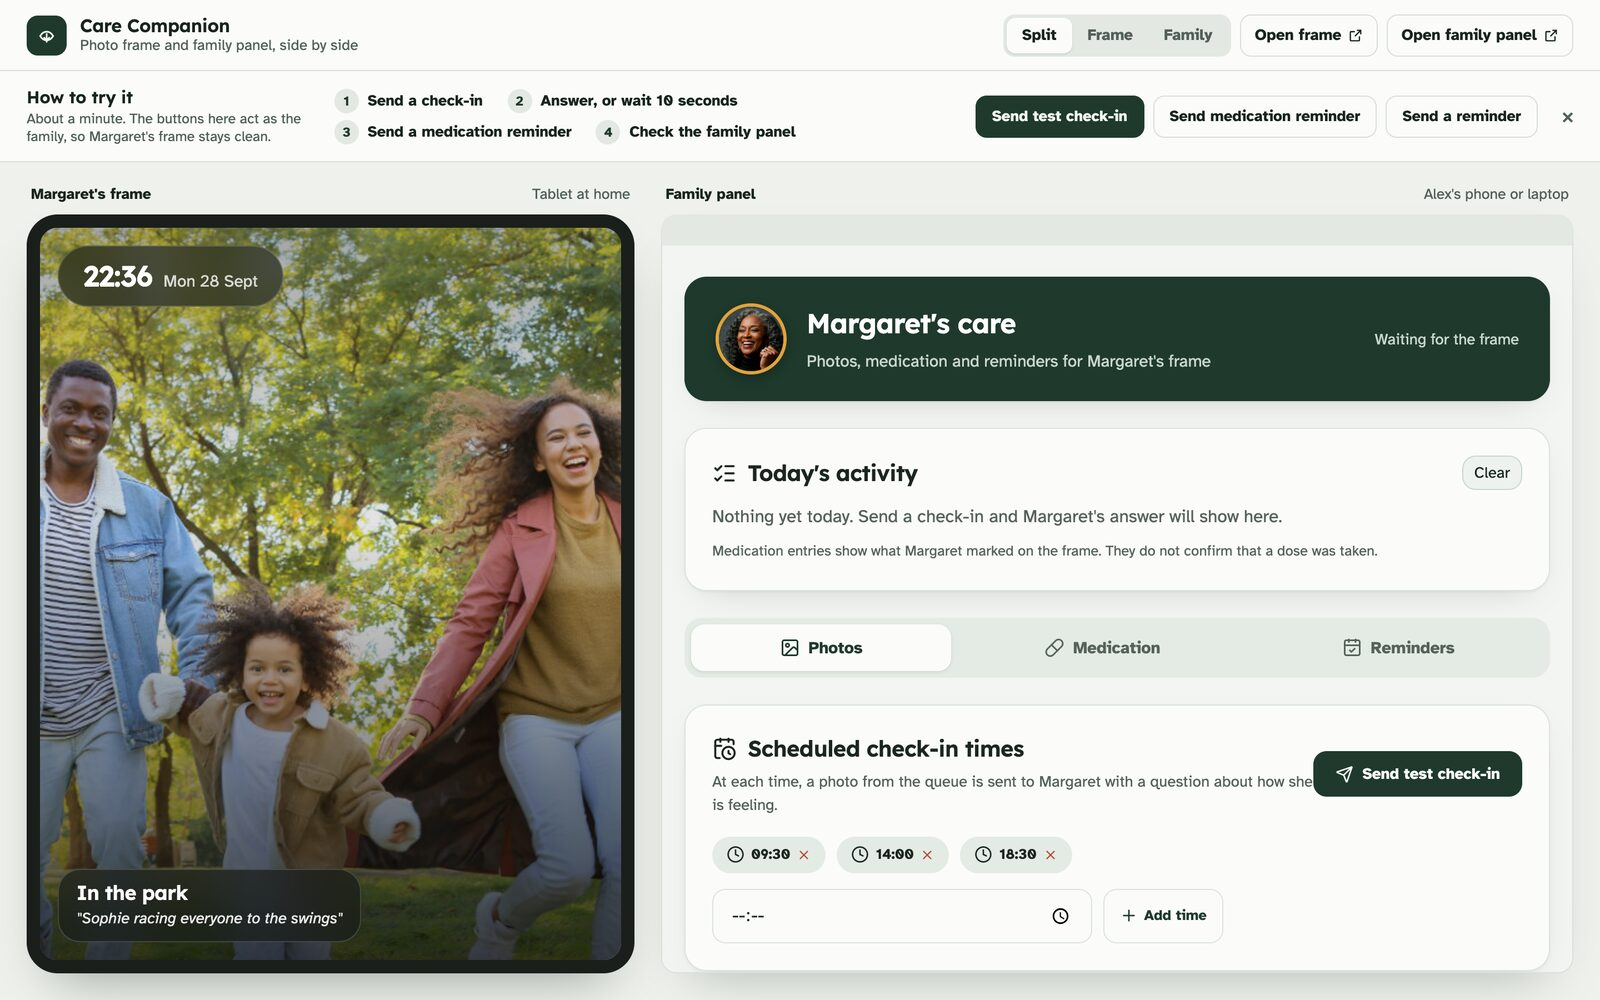
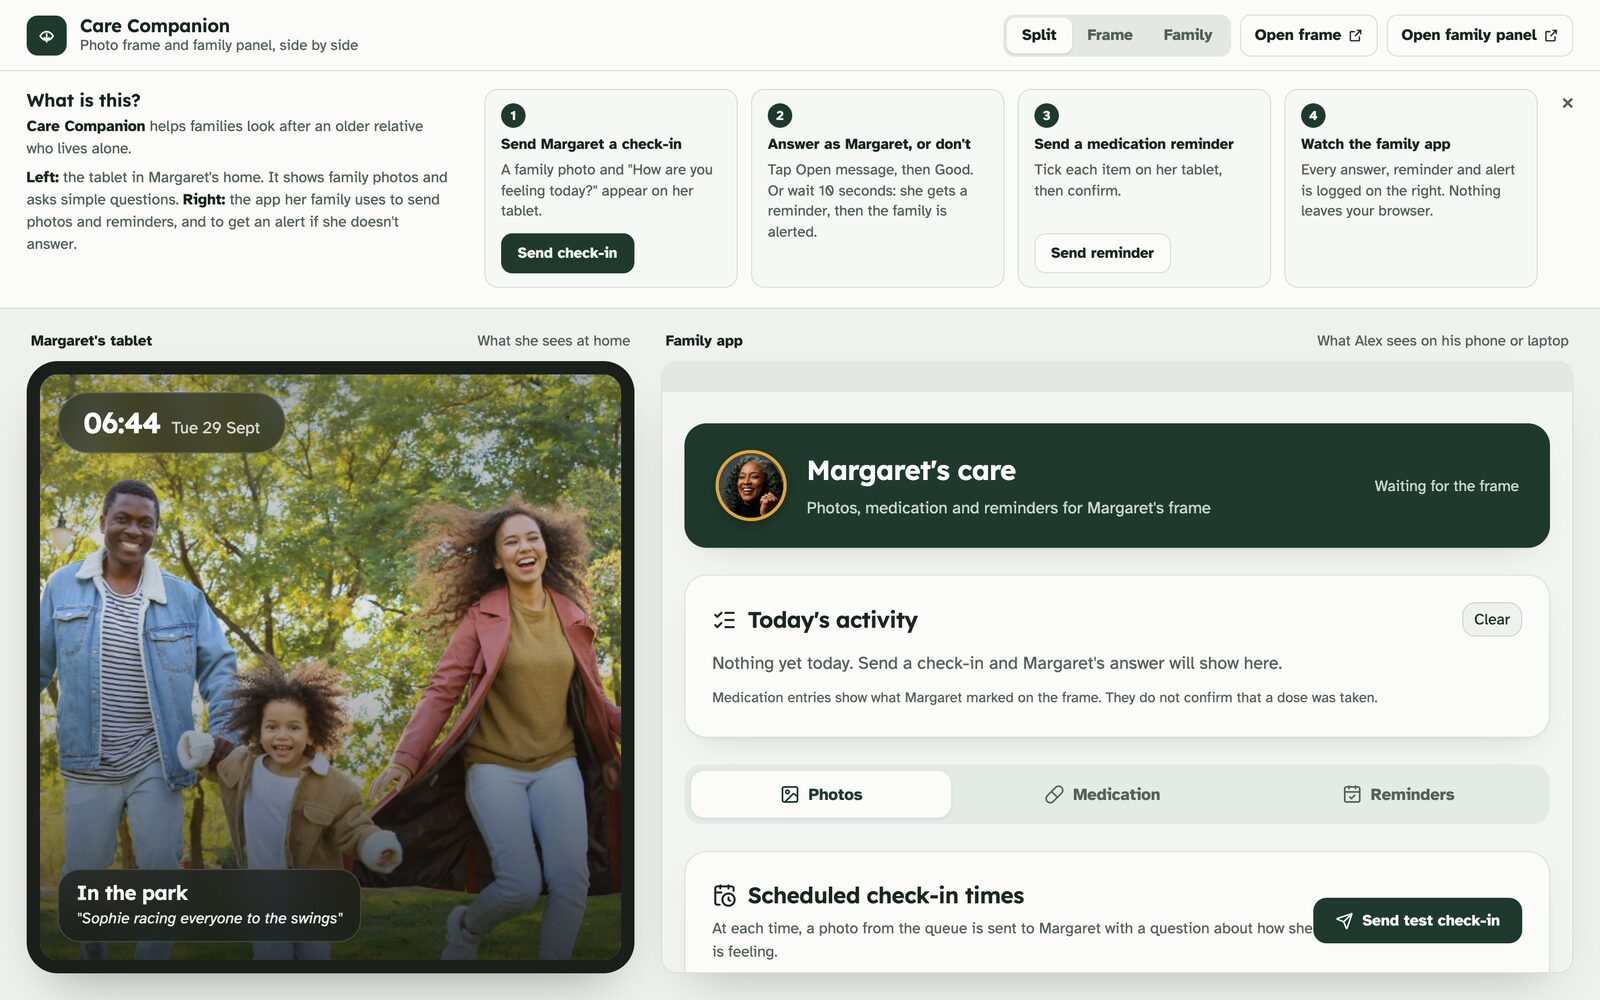
Explain the demo for first-time visitors
The guide now says what Care Companion is, which screen is which, and
puts each demo button next to its step. Pane labels say who sees each
screen. Phones get a compact two-step version.

diff --git a/frontend/index.html b/frontend/index.html
@@ -120,21 +120,21 @@
     .guide {
       position: relative;
       display: grid;
-      grid-template-columns: auto 1fr auto;
-      align-items: center;
-      gap: 12px 28px;
-      padding: 14px 56px 14px 24px;
+      grid-template-columns: minmax(280px, 380px) 1fr;
+      gap: 16px 32px;
+      padding: 16px 56px 18px 24px;
       background: var(--surface);
       border-bottom: 1px solid var(--line);
     }
     .guide[hidden] { display: none; }
-    .guide-head h2 { margin: 0; font-family: "Lexend", sans-serif; font-size: .95rem; font-weight: 600; }
-    .guide-head p { margin: 2px 0 0; color: var(--ink-soft); font-size: .8rem; max-width: 30ch; }
+    .guide-head h2 { margin: 0 0 4px; font-family: "Lexend", sans-serif; font-size: 1rem; font-weight: 600; }
+    .guide-head p { margin: 0 0 6px; color: var(--ink-soft); font-size: .86rem; line-height: 1.45; }
+    .guide-head p strong { color: var(--ink); }
 
     .guide-steps {
-      display: flex;
-      flex-wrap: wrap;
-      gap: 6px 22px;
+      display: grid;
+      grid-template-columns: repeat(4, minmax(0, 1fr));
+      gap: 12px;
       margin: 0;
       padding: 0;
       list-style: none;
@@ -143,9 +143,15 @@
     .guide-steps li {
       counter-increment: step;
       display: flex;
-      align-items: center;
-      gap: 8px;
-      font-size: .86rem;
+      flex-direction: column;
+      align-items: flex-start;
+      gap: 4px;
+      padding: 12px 14px;
+      border: 1px solid var(--line);
+      border-radius: 12px;
+      background: #f6f8f5;
+      font-size: .84rem;
+      line-height: 1.4;
     }
     .guide-steps li::before {
       content: counter(step);
@@ -153,24 +159,26 @@
       place-items: center;
       width: 22px;
       height: 22px;
+      margin-bottom: 2px;
       border-radius: 50%;
-      background: #e3e8e2;
-      color: var(--green);
-      font-size: .75rem;
+      background: var(--green);
+      color: #f3f6f1;
+      font-size: .74rem;
       font-weight: 700;
-      flex: none;
     }
     .guide-steps strong { font-weight: 700; }
-    .guide-steps span { display: none; }
+    .guide [data-resident] { color: inherit; }
+    .guide-steps span { color: var(--ink-soft); }
+    .guide-steps .demo-button { margin-top: auto; }
+    .guide-steps li > span { margin-bottom: 6px; }
 
-    .guide-actions { display: flex; gap: 8px; }
     .demo-button {
-      min-height: 38px;
+      min-height: 36px;
       padding: 0 14px;
       border: 1px solid var(--line);
       border-radius: 10px;
       background: var(--surface);
-      font-size: .86rem;
+      font-size: .84rem;
       font-weight: 700;
       white-space: nowrap;
       cursor: pointer;
@@ -183,9 +191,8 @@
 
     .guide-close {
       position: absolute;
-      top: 50%;
+      top: 12px;
       right: 14px;
-      transform: translateY(-50%);
       display: grid;
       place-items: center;
       width: 30px;
@@ -256,10 +263,9 @@
     .preview-grid[data-view="caretaker"] { grid-template-columns: minmax(0, 1100px); justify-content: center; }
     .preview-grid[data-view="caretaker"] .preview.receiver { display: none; }
 
-    @media (max-width: 1280px) {
-      .guide { grid-template-columns: 1fr auto; }
-      .guide-head p { display: none; }
-      .guide-steps { grid-column: 1 / -1; grid-row: 2; }
+    @media (max-width: 1100px) {
+      .guide { grid-template-columns: 1fr; }
+      .guide-head { max-width: 900px; }
     }
 
     @media (max-width: 860px) {
@@ -271,10 +277,16 @@
       .preview-grid[data-view="split"] { grid-template-columns: 1fr; }
       .preview-grid[data-view="split"] .preview.caretaker { display: none; }
       .preview-grid { padding: 12px 12px 14px; gap: 12px; }
-      .guide { grid-template-columns: 1fr; padding: 12px 48px 12px 14px; gap: 10px; }
-      .guide-steps { display: none; }
-      .guide-head p { display: block; max-width: none; }
-      .guide-actions { overflow-x: auto; }
+      .guide { padding: 12px 44px 12px 14px; gap: 10px; }
+      .guide-panes { display: none; }
+      .guide-steps { grid-template-columns: 1fr 1fr; gap: 8px; }
+      .guide-steps li { padding: 10px; }
+      .guide-steps li > span { display: none; }
+      .guide-steps li:nth-child(2), .guide-steps li:nth-child(4) { display: none; }
+      .guide-steps li::before { display: none; }
+      .guide-steps li { flex-direction: row; align-items: center; justify-content: space-between; gap: 8px; }
+      .guide-steps .demo-button { margin-top: 0; flex: none; }
+      .guide-steps { grid-template-columns: 1fr; }
       .preview.receiver iframe { border-width: 7px; border-radius: 20px; }
       .preview.caretaker iframe { border-top-width: 18px; border-radius: 12px; }
     }
@@ -303,7 +315,7 @@
           <button class="view-button" type="button" data-view="receiver">Frame</button>
           <button class="view-button" type="button" data-view="caretaker">Family</button>
         </div>
-        <button class="open-link guide-toggle" id="guideToggle" type="button" hidden><span>How to try it</span></button>
+        <button class="open-link guide-toggle" id="guideToggle" type="button" hidden><span>What is this?</span></button>
         <a class="open-link" href="carereceiver.html" target="_blank" rel="noopener"><span>Open frame</span><svg viewBox="0 0 24 24" aria-hidden="true"><path d="M14 4h6v6M20 4l-9 9"></path><path d="M18 13v6a1 1 0 0 1-1 1H5a1 1 0 0 1-1-1V7a1 1 0 0 1 1-1h6"></path></svg></a>
         <a class="open-link" href="caretaker.html" target="_blank" rel="noopener"><span>Open family panel</span><svg viewBox="0 0 24 24" aria-hidden="true"><path d="M14 4h6v6M20 4l-9 9"></path><path d="M18 13v6a1 1 0 0 1-1 1H5a1 1 0 0 1-1-1V7a1 1 0 0 1 1-1h6"></path></svg></a>
       </div>
@@ -311,30 +323,40 @@
 
     <section class="guide" id="guide" aria-labelledby="guideTitle">
       <div class="guide-head">
-        <h2 id="guideTitle">How to try it</h2>
-        <p>About a minute. The buttons here act as the family, so <span data-resident>Margaret</span>'s frame stays clean.</p>
+        <h2 id="guideTitle">What is this?</h2>
+        <p><strong>Care Companion</strong> helps families look after an older relative who lives alone.</p>
+        <p class="guide-panes"><strong>Left:</strong> the tablet in <span data-resident>Margaret</span>'s home. It shows family photos and asks simple questions. <strong>Right:</strong> the app her family uses to send photos and reminders, and to get an alert if she doesn't answer.</p>
       </div>
-      <ol class="guide-steps">
-        <li><div><strong>Send a check-in</strong><span>A photo and a question appear on the frame.</span></div></li>
-        <li><div><strong>Answer, or wait 10 seconds</strong><span>Unanswered check-ins alert the family.</span></div></li>
-        <li><div><strong>Send a medication reminder</strong><span>Select each item, then confirm.</span></div></li>
-        <li><div><strong>Check the family panel</strong><span>Everything is logged. Nothing leaves your browser.</span></div></li>
+      <ol class="guide-steps" aria-label="Try it in about a minute">
+        <li>
+          <strong>Send <span data-resident>Margaret</span> a check-in</strong>
+          <span>A family photo and "How are you feeling today?" appear on her tablet.</span>
+          <button class="demo-button primary" type="button" data-demo-action="checkin">Send check-in</button>
+        </li>
+        <li>
+          <strong>Answer as <span data-resident>Margaret</span>, or don't</strong>
+          <span>Tap Open message, then Good. Or wait 10 seconds: she gets a reminder, then the family is alerted.</span>
+        </li>
+        <li>
+          <strong>Send a medication reminder</strong>
+          <span>Tick each item on her tablet, then confirm.</span>
+          <button class="demo-button" type="button" data-demo-action="medication">Send reminder</button>
+        </li>
+        <li>
+          <strong>Watch the family app</strong>
+          <span>Every answer, reminder and alert is logged on the right. Nothing leaves your browser.</span>
+        </li>
       </ol>
-      <div class="guide-actions" role="group" aria-label="Demo controls">
-        <button class="demo-button primary" type="button" data-demo-action="checkin">Send test check-in</button>
-        <button class="demo-button" type="button" data-demo-action="medication">Send medication reminder</button>
-        <button class="demo-button" type="button" data-demo-action="reminder">Send a reminder</button>
-      </div>
       <button class="guide-close" id="guideClose" type="button" aria-label="Hide the guide">&times;</button>
     </section>
 
     <section class="preview-grid" id="previewGrid" data-view="split" aria-label="Care Companion split preview">
       <article class="preview receiver">
-        <header class="preview-label"><span><span data-resident>Margaret</span>'s frame</span><span>Tablet at home</span></header>
+        <header class="preview-label"><span><span data-resident>Margaret</span>'s tablet</span><span>What she sees at home</span></header>
         <iframe src="carereceiver.html" title="Margaret's photo frame"></iframe>
       </article>
       <article class="preview caretaker">
-        <header class="preview-label"><span>Family panel</span><span>Alex's phone or laptop</span></header>
+        <header class="preview-label"><span>Family app</span><span>What Alex sees on his phone or laptop</span></header>
         <iframe src="caretaker.html" title="Family panel"></iframe>
       </article>
     </section>
@@ -366,7 +388,7 @@
 
       const guide = document.getElementById('guide');
       const guideToggle = document.getElementById('guideToggle');
-      const GUIDE_KEY = 'care_companion_guide_hidden_v1';
+      const GUIDE_KEY = 'care_companion_guide_hidden_v2';
       function setGuide(open) {
         guide.hidden = !open;
         guideToggle.hidden = open;
